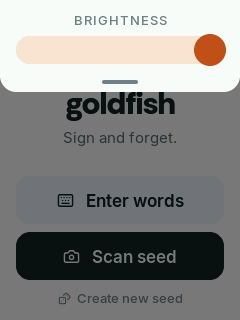
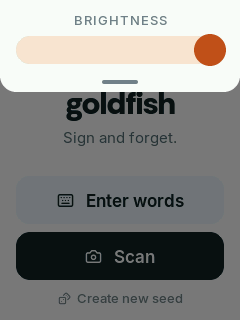
Home: Scan; Scan seed says to hold still for words
The Home button is just Scan. Scan seed's second line says "Hold still
to read words" until a status replaces it: nothing on screen said how
written words get read.

Changed region(s): [[0.2625, 0.7812, 0.7583, 0.8438]]

diff --git a/firmware/src/app/ui.cpp b/firmware/src/app/ui.cpp
@@ -142,7 +142,7 @@ static void build_home() {
     lv_obj_set_height(words, 48);
     lv_obj_set_style_bg_opa(words, LV_OPA_COVER, 0);
     lv_obj_align(words, LV_ALIGN_BOTTOM_MID, 0, -40 - 48 - 8);
-    lv_obj_t *scan = btn_primary(scr, ICON_CAMERA "   Scan seed", go_cb, GO(UI_SCAN_SEED));
+    lv_obj_t *scan = btn_primary(scr, ICON_CAMERA "   Scan", go_cb, GO(UI_SCAN_SEED));
     lv_obj_align(scan, LV_ALIGN_BOTTOM_MID, 0, -40);
     // Making a new seed is a different job, so it sits apart and quieter.
     lv_obj_align(quiet_link(scr, ICON_DICE "  Create new seed", go_cb, GO(UI_NEW_SEED)), LV_ALIGN_BOTTOM_MID, 0, -4);
@@ -461,8 +461,9 @@ static void build_scan(ScanMode mode) {
     lv_obj_t *scr = screen();
     static const char *titles[] = {"Scan seed", "Scan", "Check card"};
     // The title says what is scanned; one line says what to do. The second
-    // line stays empty until there is something to report. The wallet's
-    // scanner says what it takes instead, until a status.
+    // line stays empty until there is something to report, except on Scan
+    // seed: there it says how words are read (nothing to tap), until a status.
+    // The wallet's scanner says what it takes instead, until a status.
     static const char *prompts[] = {"QR code or written words", "", "Let's check it matches"};
     topbar(scr, titles[mode], scan_back_cb);
     preview_image(scr);
@@ -485,15 +486,15 @@ static void build_scan(ScanMode mode) {
     last_probe = lv_tick_get();
 
     scan_msg = text(scr, prompts[mode], &inter_17_semi, TEXT, LV_TEXT_ALIGN_CENTER);
-    lv_obj_align(scan_msg, LV_ALIGN_TOP_MID, 0, BAR + PREV_H + 14);
-    scan_sub = text(scr, "", &inter_13, TEXT_3, LV_TEXT_ALIGN_CENTER);
+    lv_obj_align(scan_msg, LV_ALIGN_TOP_MID, 0, BAR + PREV_H + (seed ? 18 : 14));
+    scan_sub = text(scr, seed ? "Hold still to read words" : "", &inter_13, TEXT_3, LV_TEXT_ALIGN_CENTER);
     // one line each, kept off the screen edge: status texts are written to fit, this only catches a slip
     lv_obj_t *lines[] = {scan_msg, scan_sub};
     for (lv_obj_t *l : lines) {
         lv_obj_set_width(l, CW);
         lv_label_set_long_mode(l, LV_LABEL_LONG_DOT);
     }
-    lv_obj_align(scan_sub, LV_ALIGN_TOP_MID, 0, BAR + PREV_H + 40);
+    lv_obj_align(scan_sub, LV_ALIGN_TOP_MID, 0, BAR + PREV_H + (seed ? 44 : 40));
     scan_hints = nullptr;
     if (mode == SCAN_WALLET) {
         scan_hints = text(scr, "Transactions, addresses\nand multisig wallets", &inter_15, TEXT_2, LV_TEXT_ALIGN_CENTER);

diff --git a/firmware/e2e/test_written_words.py b/firmware/e2e/test_written_words.py
@@ -12,7 +12,7 @@ GREY = Image.new("L", (320, 240), 128)
 
 
 def test_written_page_starts_by_itself(dev):
-    dev.tap("Scan seed")
+    dev.tap("Scan")
     assert dev.screen == "SCAN_SEED"
     dev.show_page(PAGE)
     dev.wait_for(lambda: dev.screen == "PAGE_FOUND", ms=5000, what="the words to be found")
@@ -32,7 +32,7 @@ def test_written_page_starts_by_itself(dev):
 
 def test_qr_held_still_does_not_read_words(dev):
     """A QR that isn't a seed stays a QR: its modules are never taken for words."""
-    dev.tap("Scan seed")
+    dev.tap("Scan")
     dev.show(Image.open(FIRMWARE / "sim" / "samples" / "testpsbt_height_demise_base64.png").convert("L"))
     dev.wait(3000)
     assert dev.screen == "SCAN_SEED", dev.text()

diff --git a/firmware/e2e/test_brightness.py b/firmware/e2e/test_brightness.py
@@ -11,13 +11,13 @@ def test_pull_down_opens_and_tap_below_closes(dev):
     assert not panel_open(dev)
     dev.cmd("drag 120 4 120 100")
     assert panel_open(dev), dev.text()
-    dev.tap("Scan seed")             # under the shade: closes it, doesn't scan
+    dev.tap("Scan")             # under the shade: closes it, doesn't scan
     assert not panel_open(dev)
     assert dev.screen == "HOME"
 
 
 def test_drag_from_back_button_opens_panel_not_back(dev):
-    dev.tap("Scan seed")
+    dev.tap("Scan")
     assert dev.screen == "SCAN_SEED"
     dev.cmd("drag 24 10 24 120")   # starts on the back chevron
     assert panel_open(dev)

diff --git a/firmware/e2e/flows.py b/firmware/e2e/flows.py
@@ -30,7 +30,7 @@ def load_by_words(dev, mnemonic):
 
 
 def load_by_qr(dev, mnemonic, compact=False):
-    dev.tap("Scan seed")
+    dev.tap("Scan")
     dev.scan(seedqr(mnemonic, compact))
     assert dev.screen == "WALLET", dev.text()
 

diff --git a/firmware/README.md b/firmware/README.md
@@ -21,7 +21,7 @@ format SeedSigner uses (the UI just calls it a seed QR), as typed BIP39
 words, or are made on the device. A BIP-39 passphrase can be added after loading.
 The seed lives in RAM only: Forget seed or unplugging removes it.
 
-1. Home: Scan seed, Enter words, or New seed. The top left corner shows Wi-Fi,
+1. Home: Scan (a seed QR or written words), Enter words, or New seed. The top left corner shows Wi-Fi,
    Bluetooth and USB crossed out: the board has no radio, and the firmware has
    no USB stack, so USB-C is power only (until Restart into the bootloader, see Flash).
 2. Wallet: the home screen once a seed is loaded, shaped like Home: the logo,
